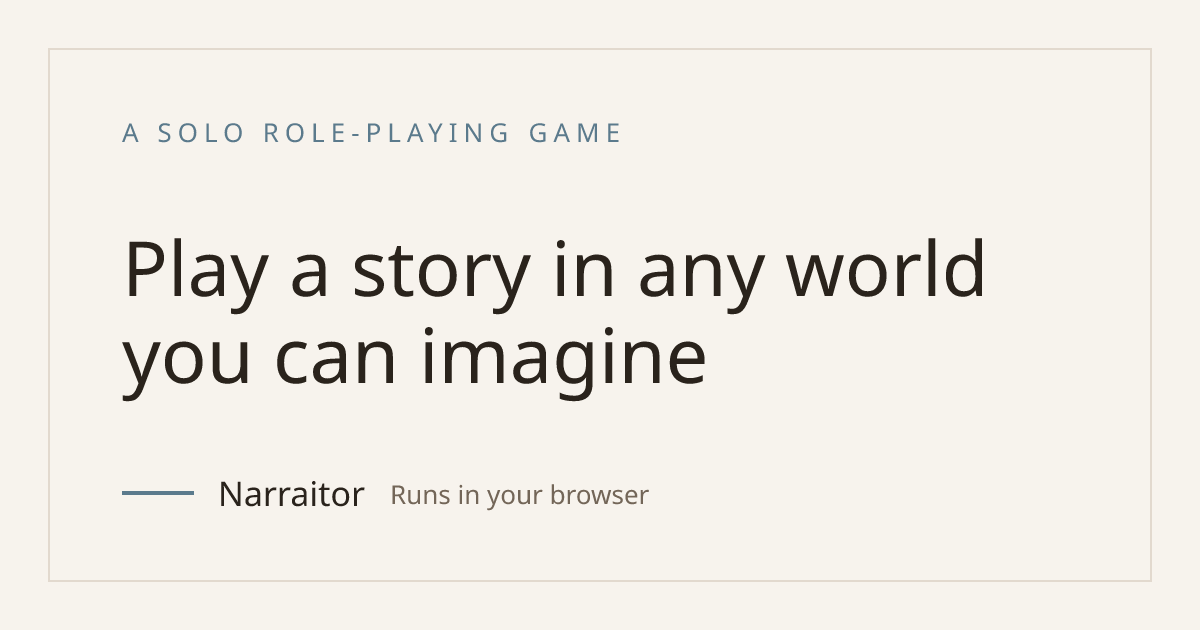
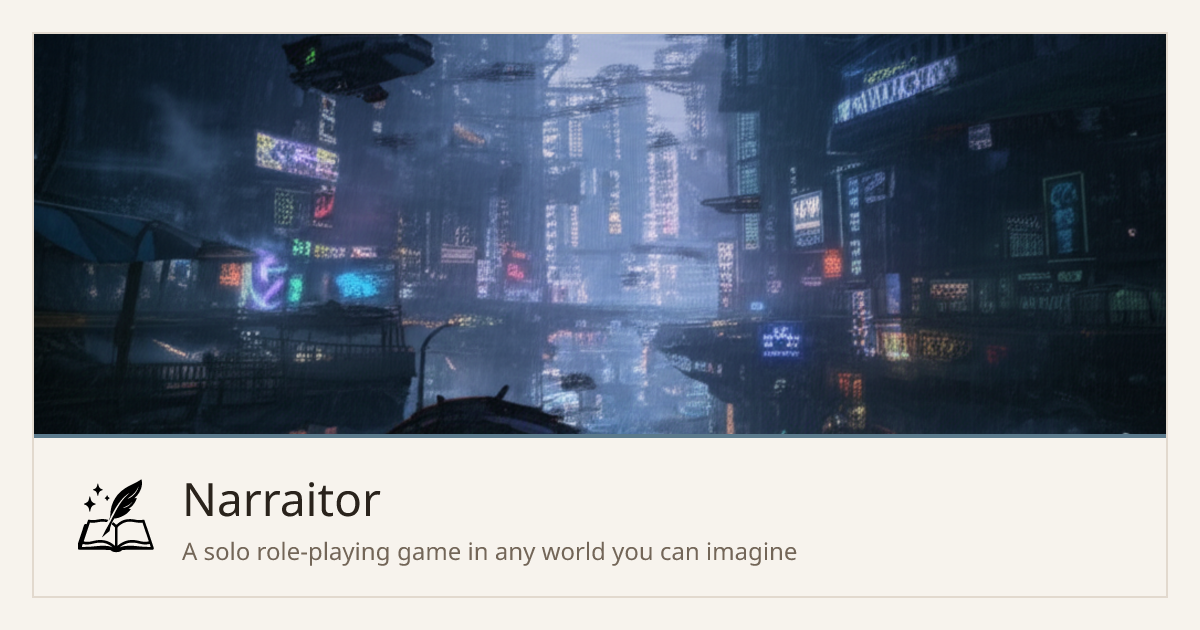
feat: lead the share card with generated world art (#1636)
Review feedback: the card was a wall of text on flat colour - bland, and
text baked into pixels is unreadable to anyone relying on the alt.

Now it opens with the same neon cityscape the landing hero uses, divided
by a steel-blue rule from a paper strip carrying the quill-and-book mark
and one line. The issue called generated world art the obvious source
material, and showing what the app produces beats describing it. Words
are down to a wordmark and a tagline; the alt export carries the rest.

Both assets are read at build time and inlined as data URIs - satori
can't fetch, and the route is statically generated so nothing touches
the filesystem at runtime.

Trade-off: 855KB, up from ~37KB. Photographic content in a PNG, and
ImageResponse only emits PNG. Inside every platform limit.

diff --git a/src/app/opengraph-image.tsx b/src/app/opengraph-image.tsx
@@ -1,8 +1,15 @@
+import fs from 'fs';
+import path from 'path';
 import { ImageResponse } from 'next/og';
 
 /**
  * Branded share card (#1636). Inherited by every route unless that route
  * declares its own `openGraph` block — see the comment in layout.tsx.
+ *
+ * The card leads with generated world art rather than a headline: it shows what
+ * the app produces, and it keeps the words down to a wordmark and one line,
+ * since anything set as pixels here is unreadable to anyone relying on the
+ * `alt` export below.
  *
  * Satori renders this without a DOM, so the DS3 palette is inlined as hex
  * (CSS custom properties and the space-separated rgb() syntax are both
@@ -17,8 +24,20 @@ const BORDER = '#E2D9CE'; // --color-border
 const INK = '#2A231C'; // --color-text-primary
 const SECONDARY = '#736658'; // --color-text-secondary
 const ACCENT = '#5B7A8C'; // --color-accent
+/* eslint-enable design-tokens/no-hardcoded-colors */
 
-export const alt = 'Narraitor — play a story in any world you can imagine';
+// Read at module scope: this route is statically generated, so the files are
+// resolved during `next build` and never touched at runtime.
+const asDataUri = (relativePath: string, mimeType: string): string => {
+  const bytes = fs.readFileSync(path.join(process.cwd(), 'public', relativePath));
+  return `data:${mimeType};base64,${bytes.toString('base64')}`;
+};
+
+const worldArt = asDataUri('visual-assets/world-cyberpunk.png', 'image/png');
+const logoMark = asDataUri('narraitor-logo.svg', 'image/svg+xml');
+
+export const alt =
+  'Narraitor — a rain-soaked neon city generated in the app, above the quill-and-book logo and the line "a solo role-playing game in any world you can imagine"';
 export const size = { width: 1200, height: 630 };
 export const contentType = 'image/png';
 
@@ -30,7 +49,7 @@ export default function OpengraphImage() {
           display: 'flex',
           width: '100%',
           height: '100%',
-          padding: 48,
+          padding: 32,
           backgroundColor: CANVAS,
         }}
       >
@@ -38,46 +57,40 @@ export default function OpengraphImage() {
           style={{
             display: 'flex',
             flexDirection: 'column',
-            justifyContent: 'space-between',
             width: '100%',
             height: '100%',
-            padding: '64px 72px',
             border: `2px solid ${BORDER}`,
           }}
         >
-          <div
-            style={{
-              display: 'flex',
-              fontSize: 26,
-              letterSpacing: 6,
-              textTransform: 'uppercase',
-              color: ACCENT,
-            }}
-          >
-            A solo role-playing game
-          </div>
+          <img
+            src={worldArt}
+            alt=""
+            width={1132}
+            height={404}
+            style={{ objectFit: 'cover', borderBottom: `4px solid ${ACCENT}` }}
+          />
 
           <div
             style={{
               display: 'flex',
-              fontSize: 76,
-              lineHeight: 1.15,
-              color: INK,
-              maxWidth: 900,
+              flex: 1,
+              alignItems: 'center',
+              padding: '0 44px',
             }}
           >
-            Play a story in any world you can imagine
-          </div>
+            <img src={logoMark} alt="" width={76} height={76} />
 
-          <div style={{ display: 'flex', alignItems: 'center' }}>
             <div
-              style={{ display: 'flex', width: 72, height: 4, backgroundColor: ACCENT }}
-            />
-            <div style={{ display: 'flex', marginLeft: 24, fontSize: 34, color: INK }}>
-              Narraitor
-            </div>
-            <div style={{ display: 'flex', marginLeft: 24, fontSize: 26, color: SECONDARY }}>
-              Runs in your browser
+              style={{
+                display: 'flex',
+                flexDirection: 'column',
+                marginLeft: 28,
+              }}
+            >
+              <div style={{ display: 'flex', fontSize: 46, color: INK }}>Narraitor</div>
+              <div style={{ display: 'flex', fontSize: 24, color: SECONDARY, marginTop: 4 }}>
+                A solo role-playing game in any world you can imagine
+              </div>
             </div>
           </div>
         </div>
